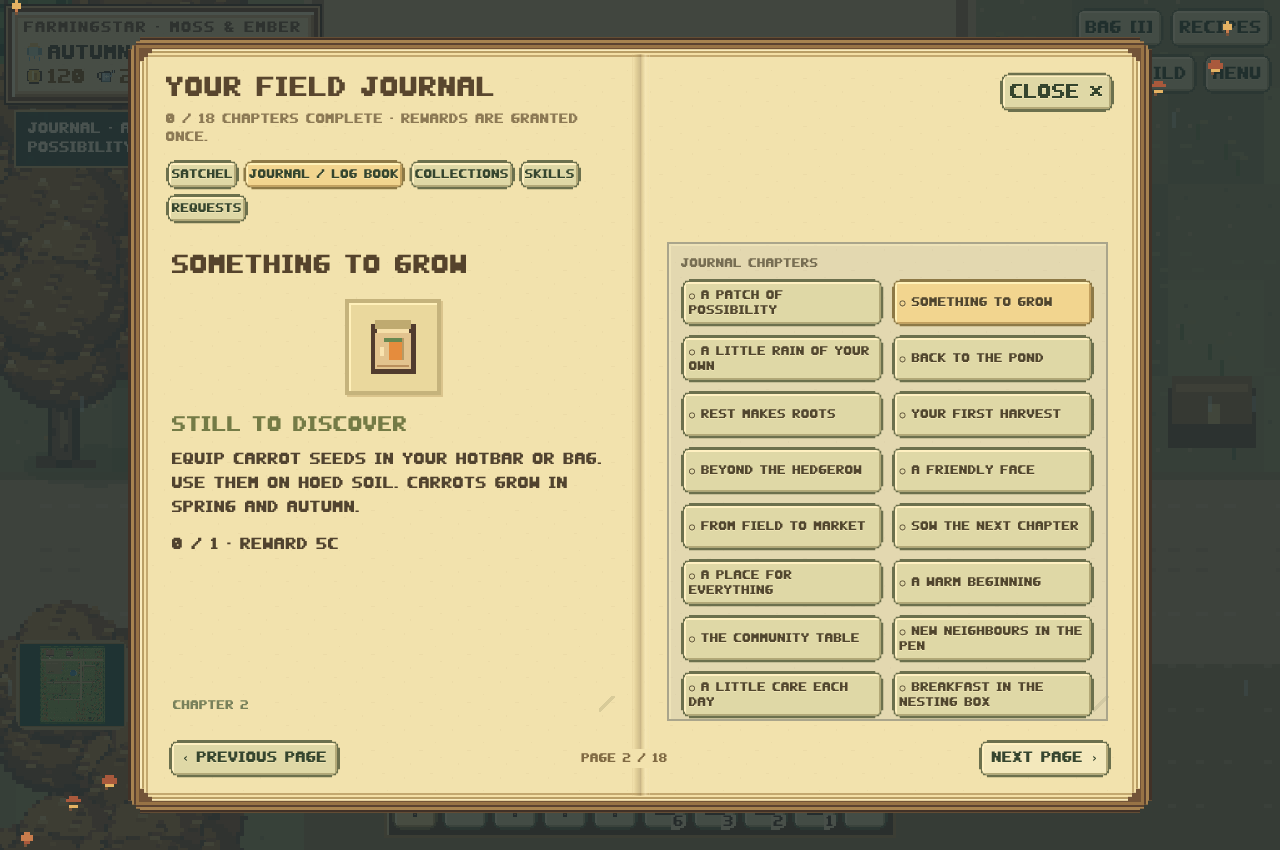
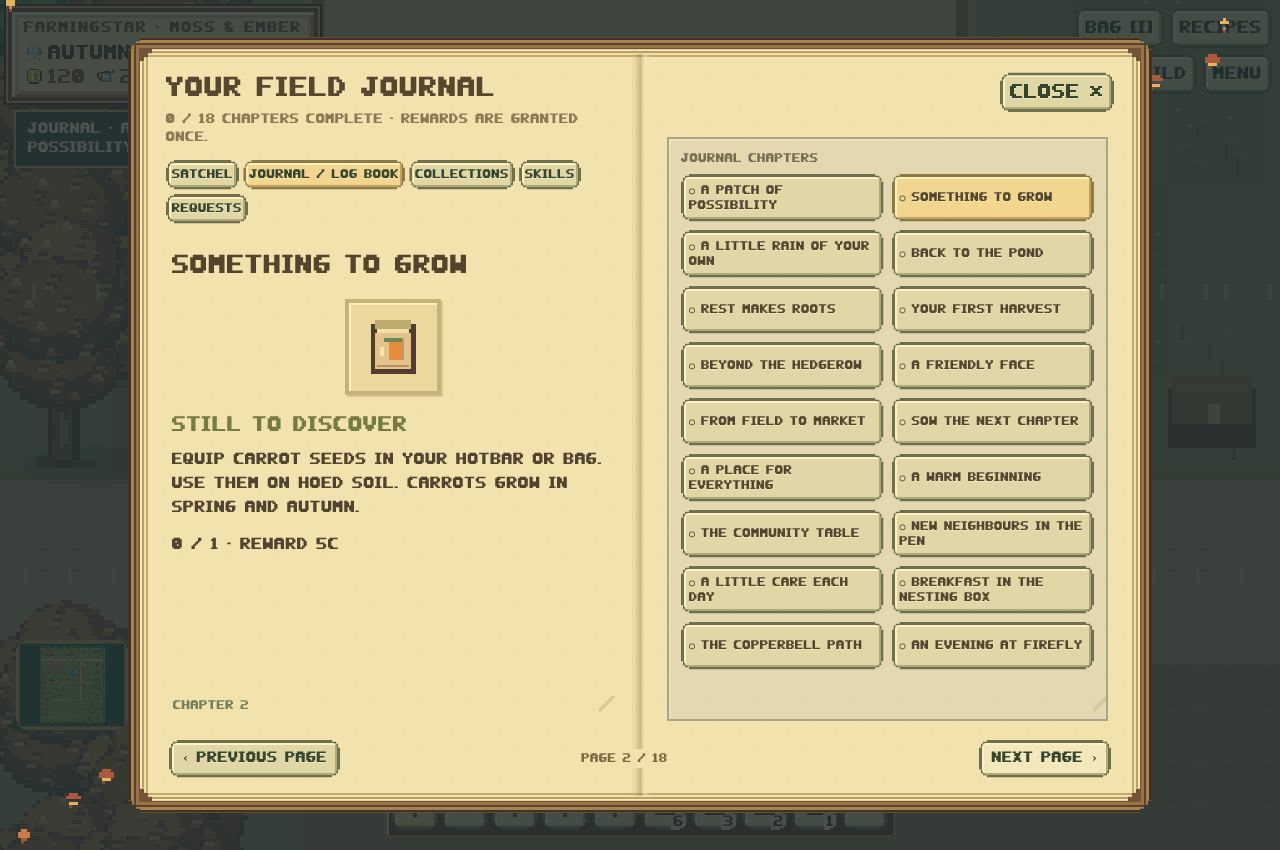
Update development review artifacts

diff --git a/previews/DEVELOPMENT_TRACKER.md b/previews/DEVELOPMENT_TRACKER.md
@@ -6,7 +6,7 @@ Game changes are confined to `index.html`. This tracker is documentation request
 
 ## Current work
 
-- Review the revised full-page journal navigation, attached edge tabs and consistent rounded button layers. Recipe ingredients retain their facing page; journal navigation uses a spare page when available.
+- Tab/button treatment and tool poses are approved. The requested final refinements are implemented: the journal button panel starts below the top-right button; side profiles are slimmer, with a smaller nose and forward-facing mirrored feet. Targeted checks pass.
 - The yellow-paper, centre-crease, leather-outline and stepped-corner design is now shared across the menus; retain the satchel handle and obtain feedback on the latest pictures.
 - Build the dedicated overhead furnishing editor and its mouse/touch/controller interactions.
 - Continue integration testing and repair confirmed failures before completion.
@@ -75,6 +75,12 @@ User-selected phone behaviour: **A by default, optional C in Settings**.
 
 For each set of visual options, wait for the user's response before continuing that specific design task. Continue independent gameplay, bug fixes and tests meanwhile. Silence is not approval.
 
+## Latest visual refinement
+
+- Journal navigation panel lifted beneath the top-right Close button; the left page and page-turn controls keep their positions.
+- Side body/face narrowed and nose reduced. Side-view legs now stride horizontally and shoes point in the facing direction; right/left feet mirror across six walk frames.
+- Book/storage, tool/audio and new `tests/profile.cjs` checks pass after these changes. The earlier full eight-suite pass remains the broader checkpoint.
+
 ## Repeatable checks
 
 Run `npm test` and `node tests/portable.cjs` for the established regression suite. Expansion checks are available as:
@@ -86,6 +92,7 @@ node tests/animals.cjs
 node tests/activities.cjs
 node tests/book-storage.cjs
 node tests/phone-layouts.cjs
+node tests/profile.cjs
 ```
 
 Browser tests need installed Playwright and Chromium (`CHROMIUM_PATH` can override the browser path). Each test uses a fresh disposable origin. Generated images are under the ignored `tests/artifacts/1.0/` directory. No player save files are used.
